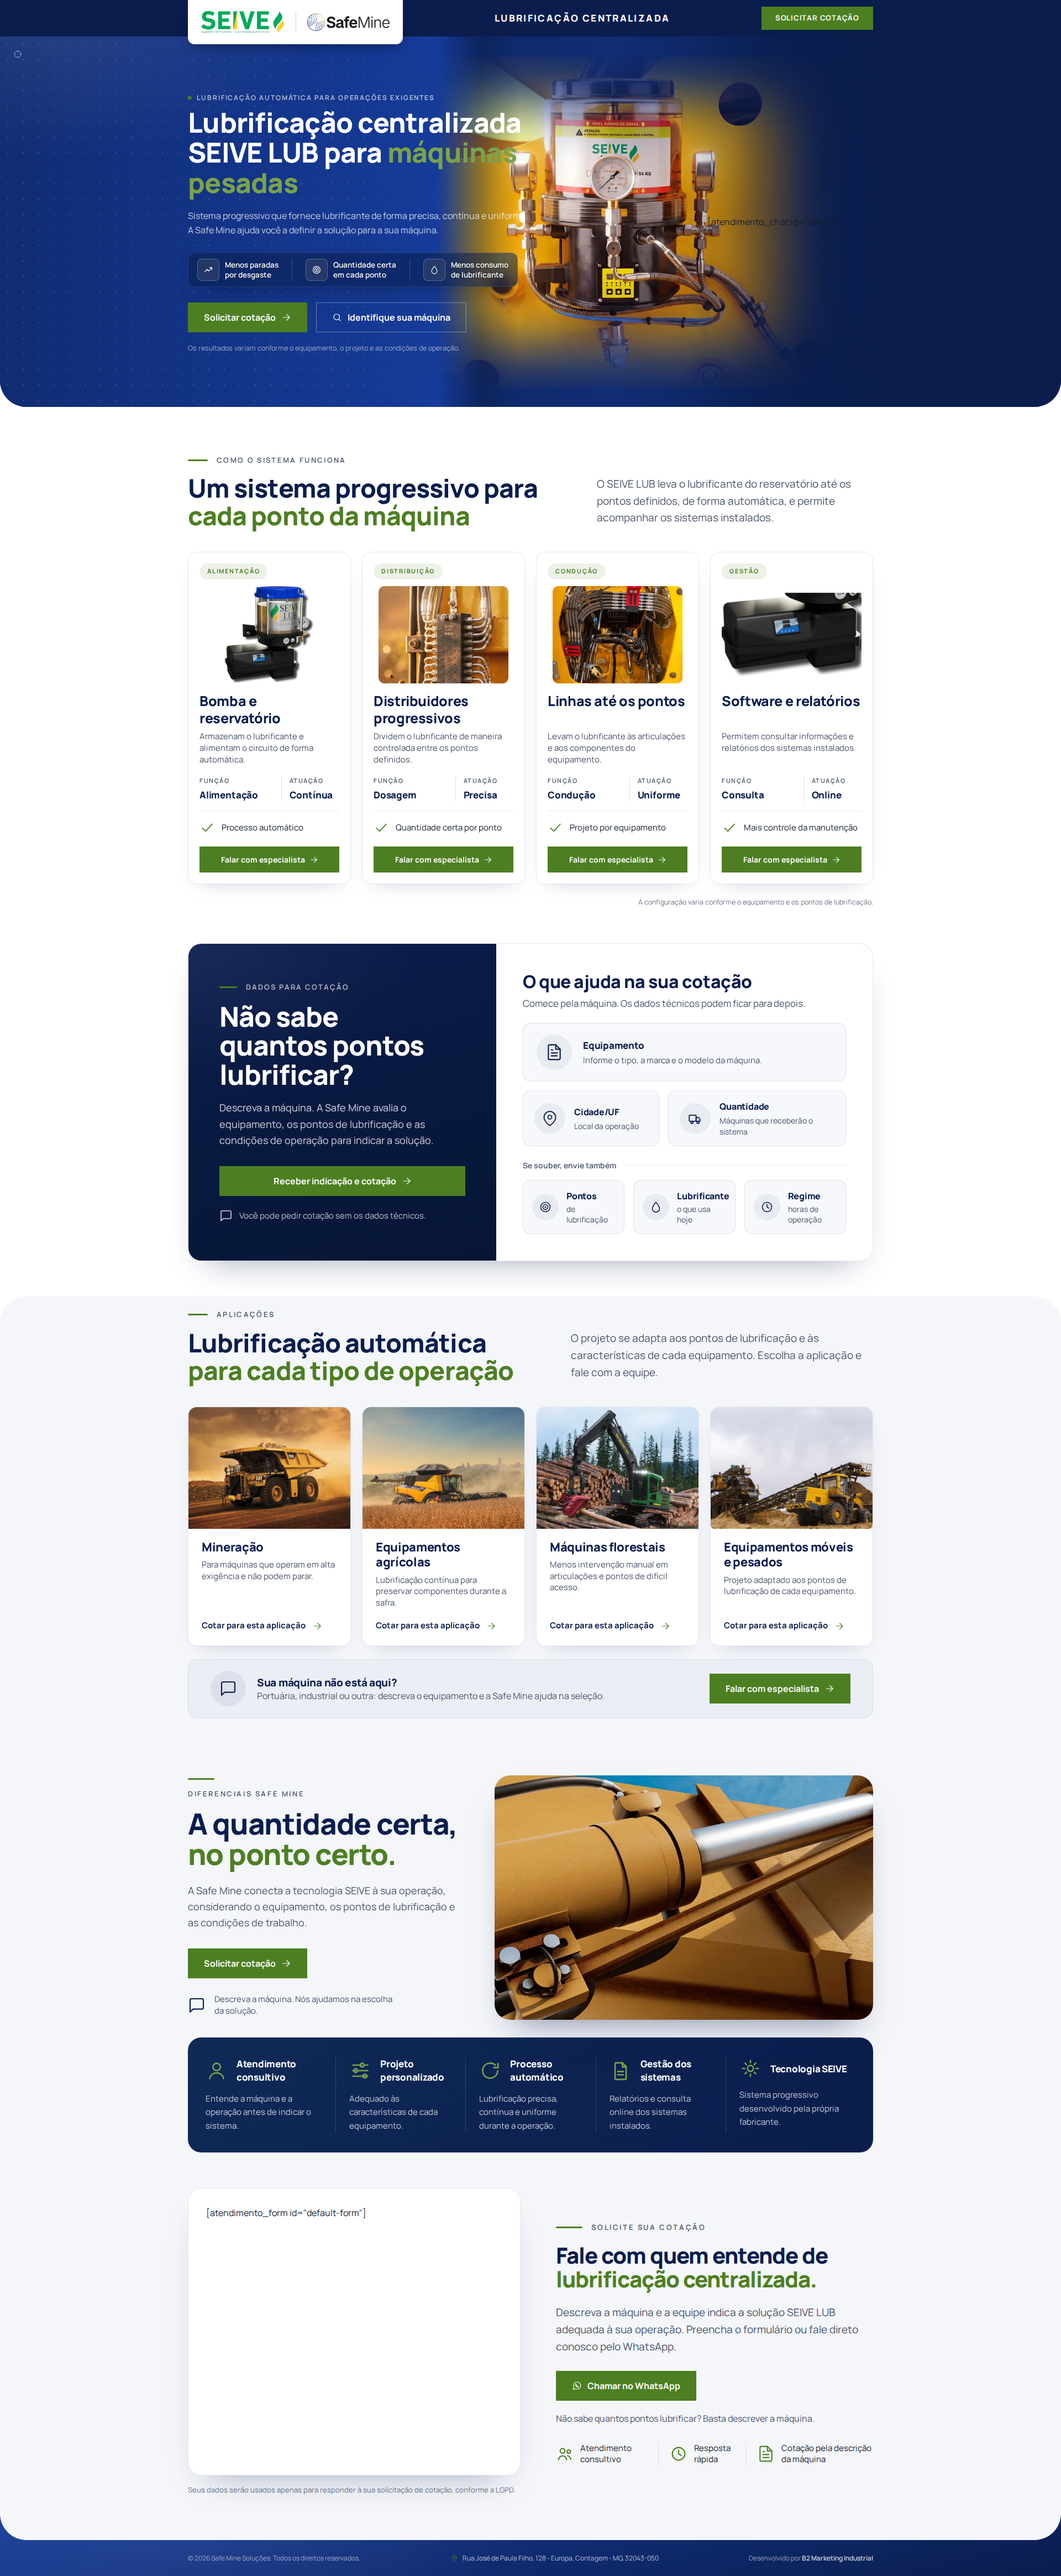
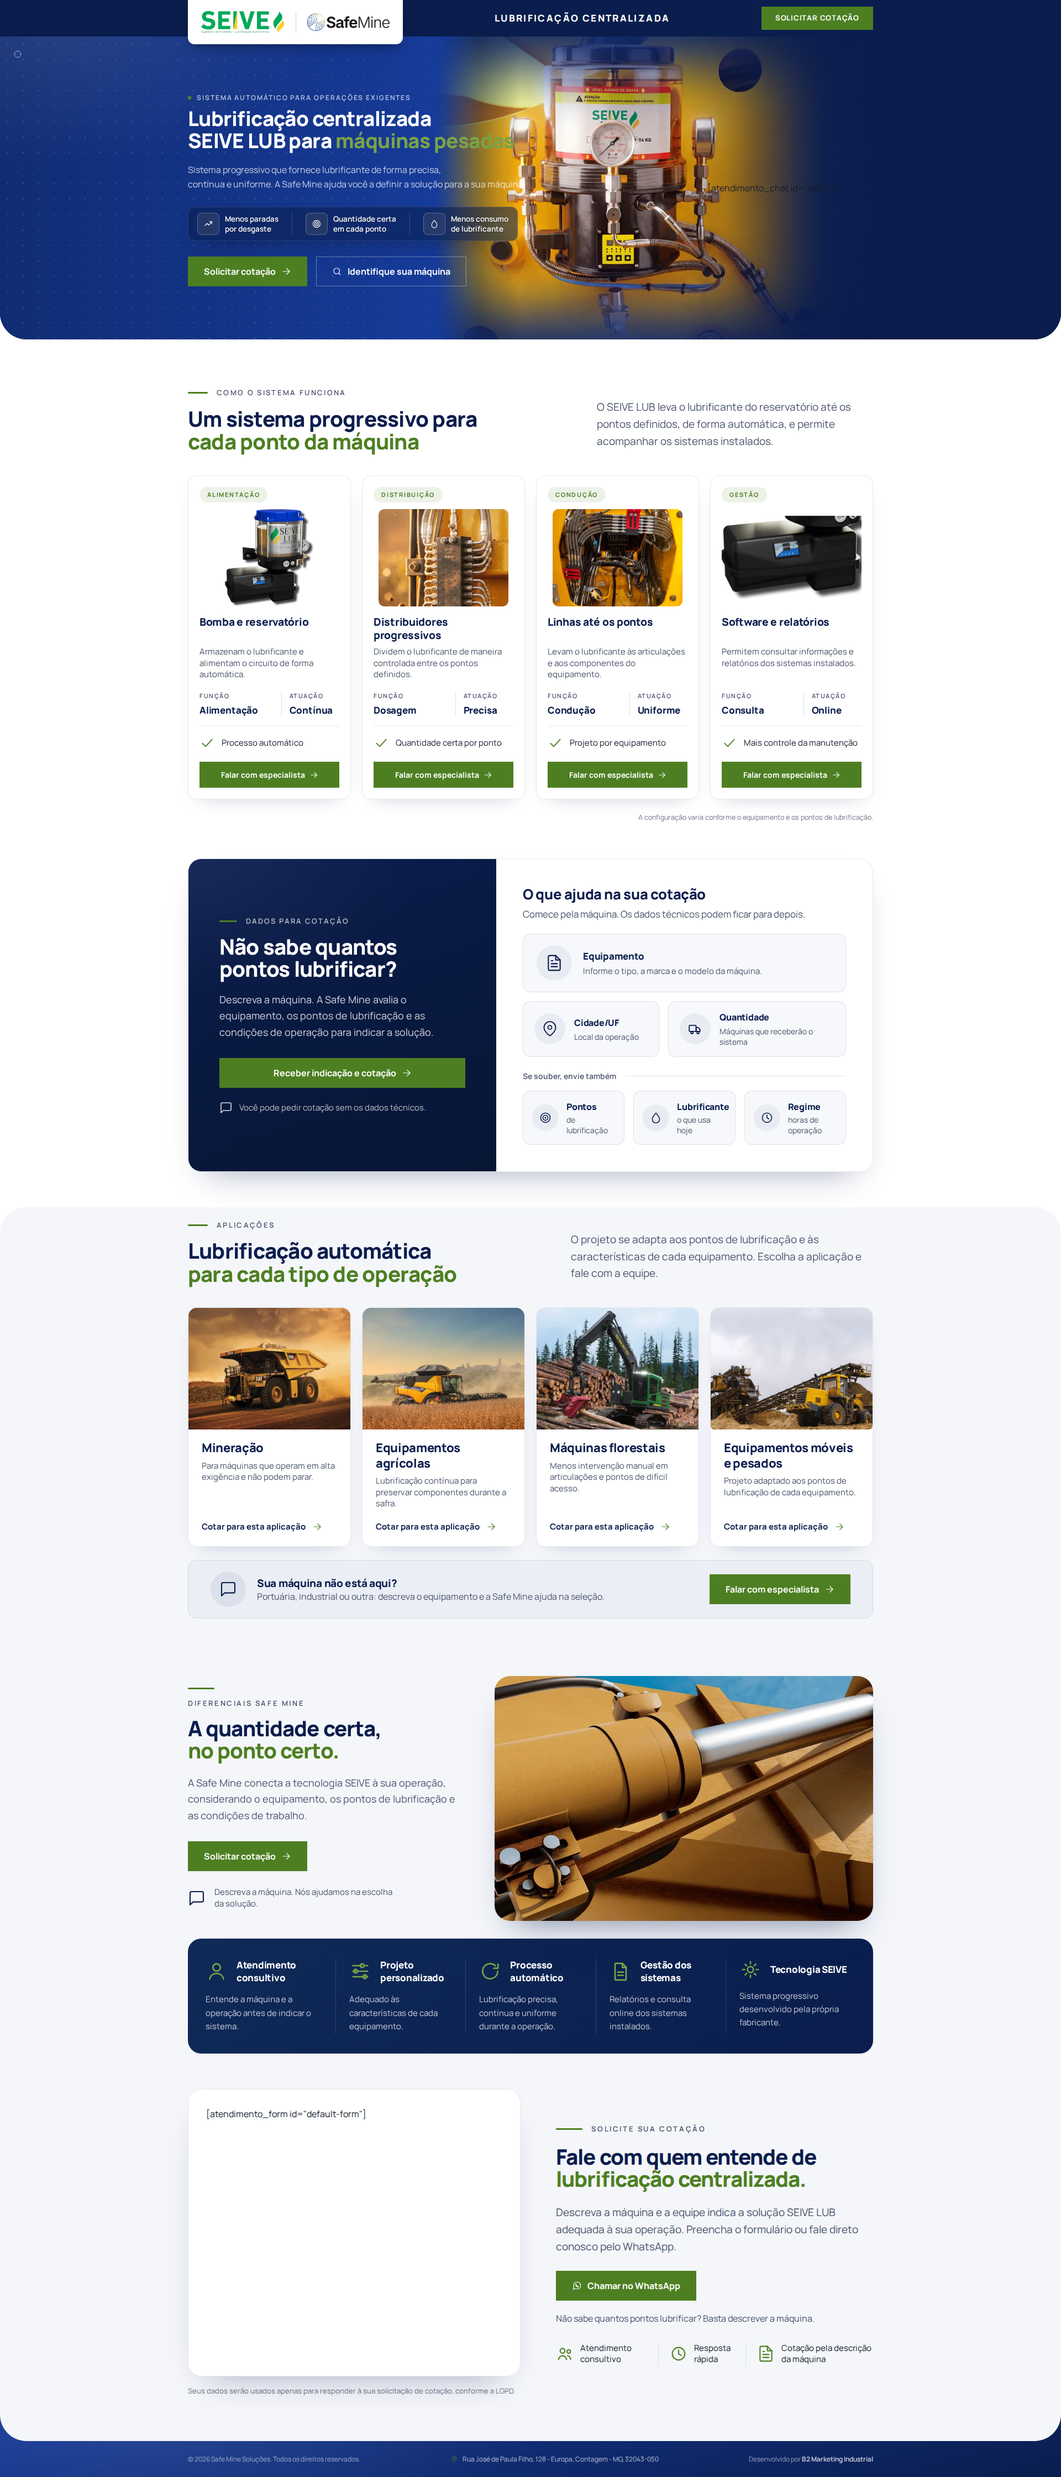
fix(hero): título em duas linhas, sem nota e sem palavra repetida
- Remove a nota "Os resultados variam..." sob os botões.
- H1 em duas linhas a partir de xl (titleBreakAfter); abaixo disso o texto corre.
- Eyebrow "Sistema automático para operações exigentes", para não repetir
  "Lubrificação" do título.
- Parágrafo quebra após "precisa," (a partir de sm).
- Títulos reduzidos e uniformizados nas seções e cards.

diff --git a/src/data/content.ts b/src/data/content.ts
@@ -49,11 +49,13 @@ export const header = {
 /* -------------------------------------------------------------------- hero */
 
 export const hero = {
-  eyebrow: 'Lubrificação automática para operações exigentes',
+  eyebrow: 'Sistema automático para operações exigentes',
   title: `${site.product} para ${site.context}`,
+  /** Quebra de linha do H1 no desktop largo: o título vai em duas linhas. */
+  titleBreakAfter: 'Lubrificação centralizada',
   /** Trecho do H1 em verde. */
   highlight: 'máquinas pesadas',
-  text: 'Sistema progressivo que fornece lubrificante de forma precisa, contínua e uniforme. A Safe Mine ajuda você a definir a solução para a sua máquina.',
+  text: 'Sistema progressivo que fornece lubrificante de forma precisa,\ncontínua e uniforme. A Safe Mine ajuda você a definir a solução para a sua máquina.',
   banner: {
     src: heroBg,
     alt: 'Bomba de lubrificação centralizada SEIVE LUB instalada em máquina pesada',
@@ -66,16 +68,14 @@ export const hero = {
     { icon: 'target', line1: 'Quantidade certa', line2: 'em cada ponto' },
     { icon: 'droplet', line1: 'Menos consumo', line2: 'de lubrificante' },
   ],
-  /** Aviso sob os botões: os três pontos acima são resultados que variam por máquina. */
-  note: 'Os resultados variam conforme o equipamento, o projeto e as condições de operação.',
 } as const satisfies {
   eyebrow: string
   title: string
   text: string
   highlight: string
+  titleBreakAfter: string
   banner: Photo & { widths: readonly number[]; sizes: string }
   points: readonly [HeroPoint, HeroPoint, HeroPoint]
-  note: string
 }
 
 /* ----------------------------------------------------------------- cotação */
